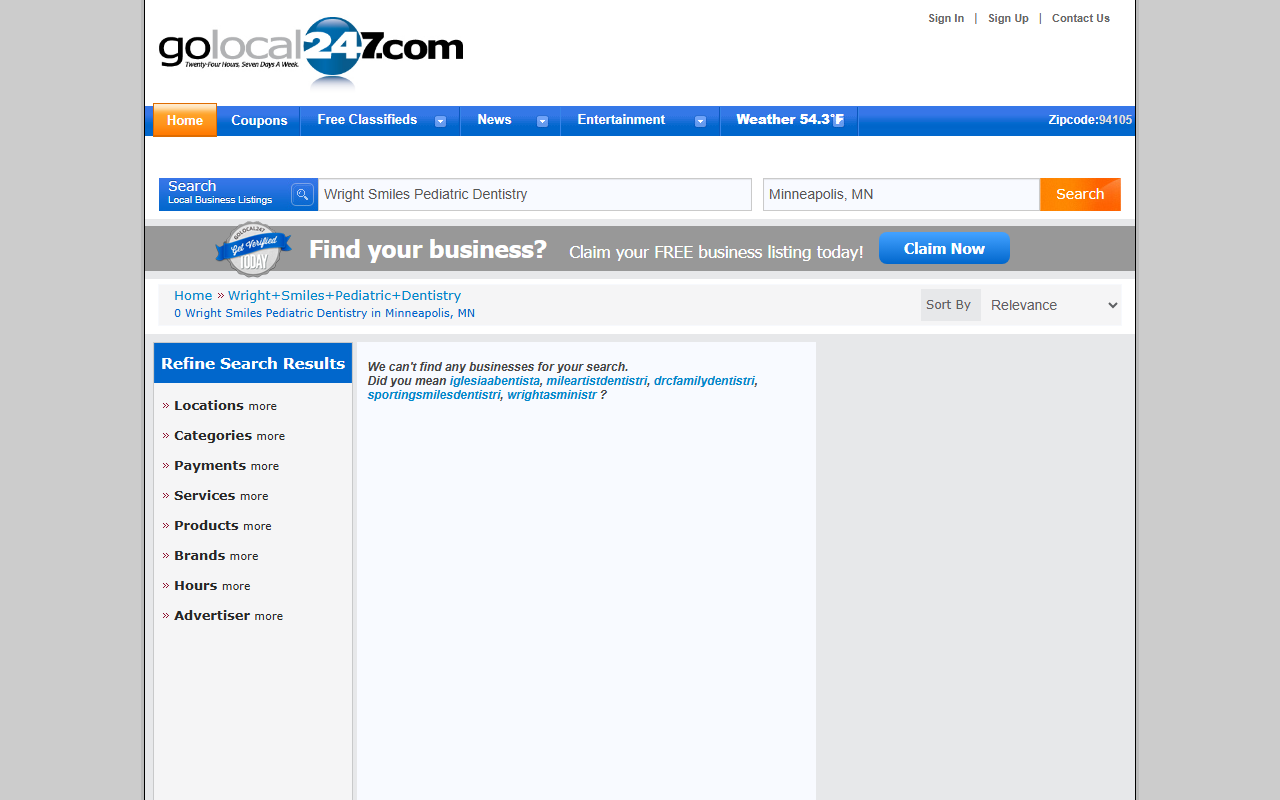
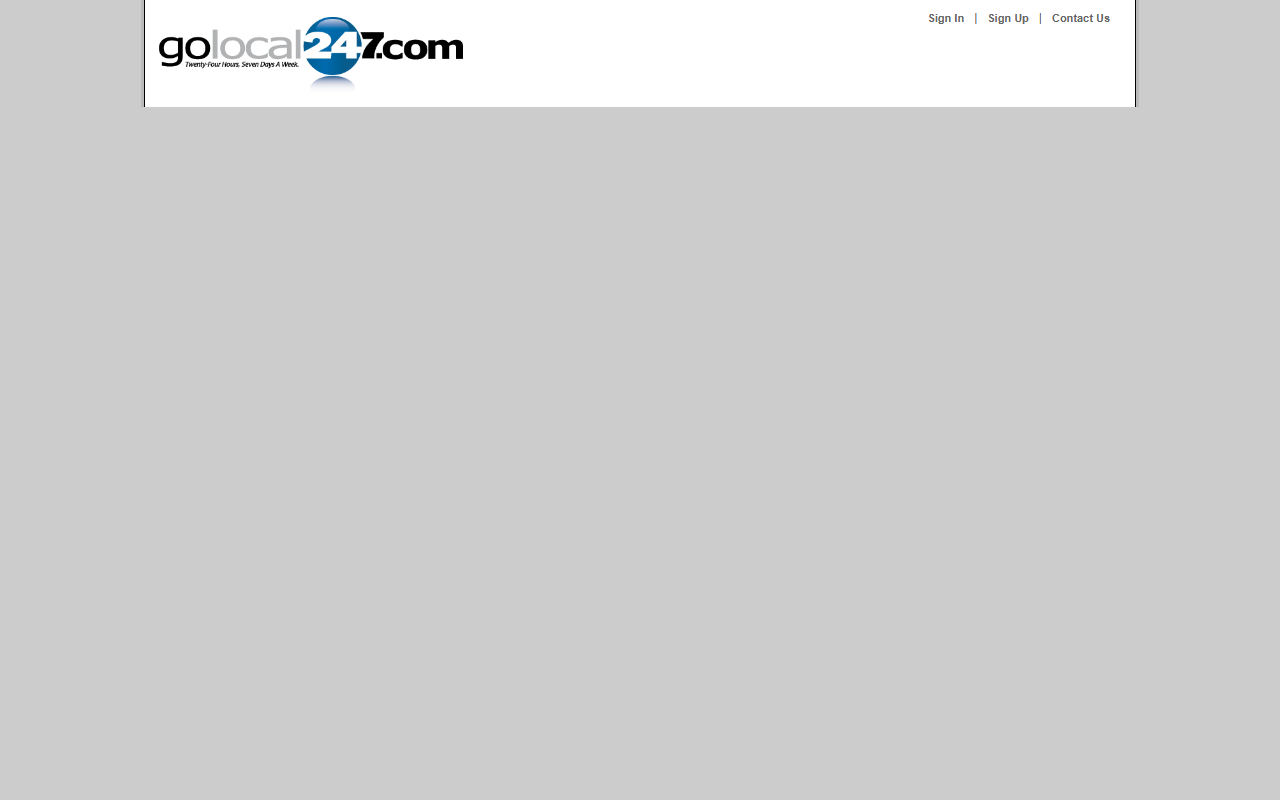
scrapper gateway

diff --git a/src/scraper/scraper.gateway.ts b/src/scraper/scraper.gateway.ts
@@ -1,10 +1,6 @@
-import {
-  WebSocketGateway,
-  SubscribeMessage,
-  MessageBody,
-  ConnectedSocket,
-  WebSocketServer,
-} from '@nestjs/websockets';
+// Adding websocket for real-time data streaming
+
+import { WebSocketGateway, SubscribeMessage, MessageBody, ConnectedSocket, WebSocketServer } from '@nestjs/websockets';
 import { Server, Socket } from 'socket.io';
 import { ScraperService } from './scraper.service';
 import { ScrapeRequestDto } from './dto/scrape-request.dto';
@@ -20,7 +16,7 @@ export class ScraperGateway {
   @WebSocketServer()
   server: Server;
 
-  constructor(private readonly scraperService: ScraperService) {}
+  constructor(private readonly scraperService: ScraperService) { }
 
   @SubscribeMessage('startScraping')
   async handleScrape(